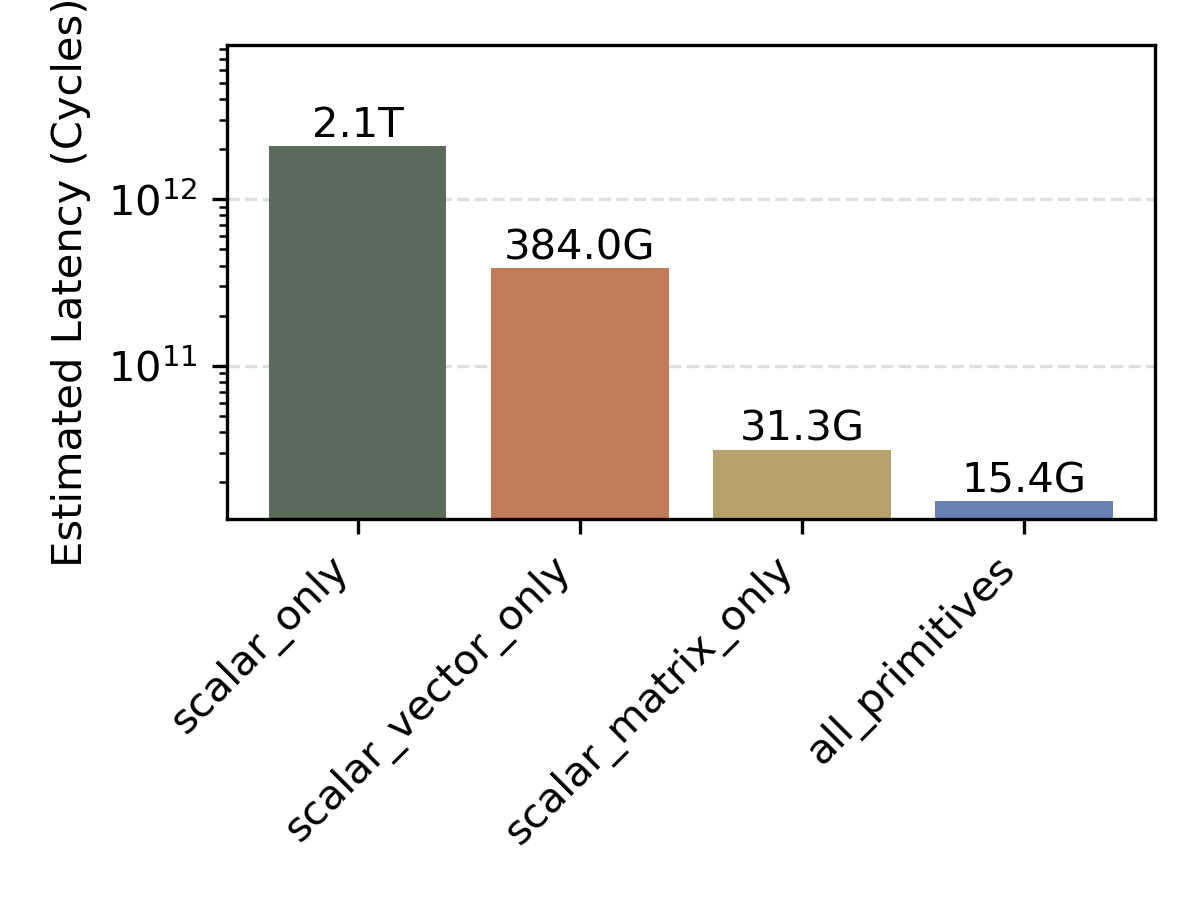
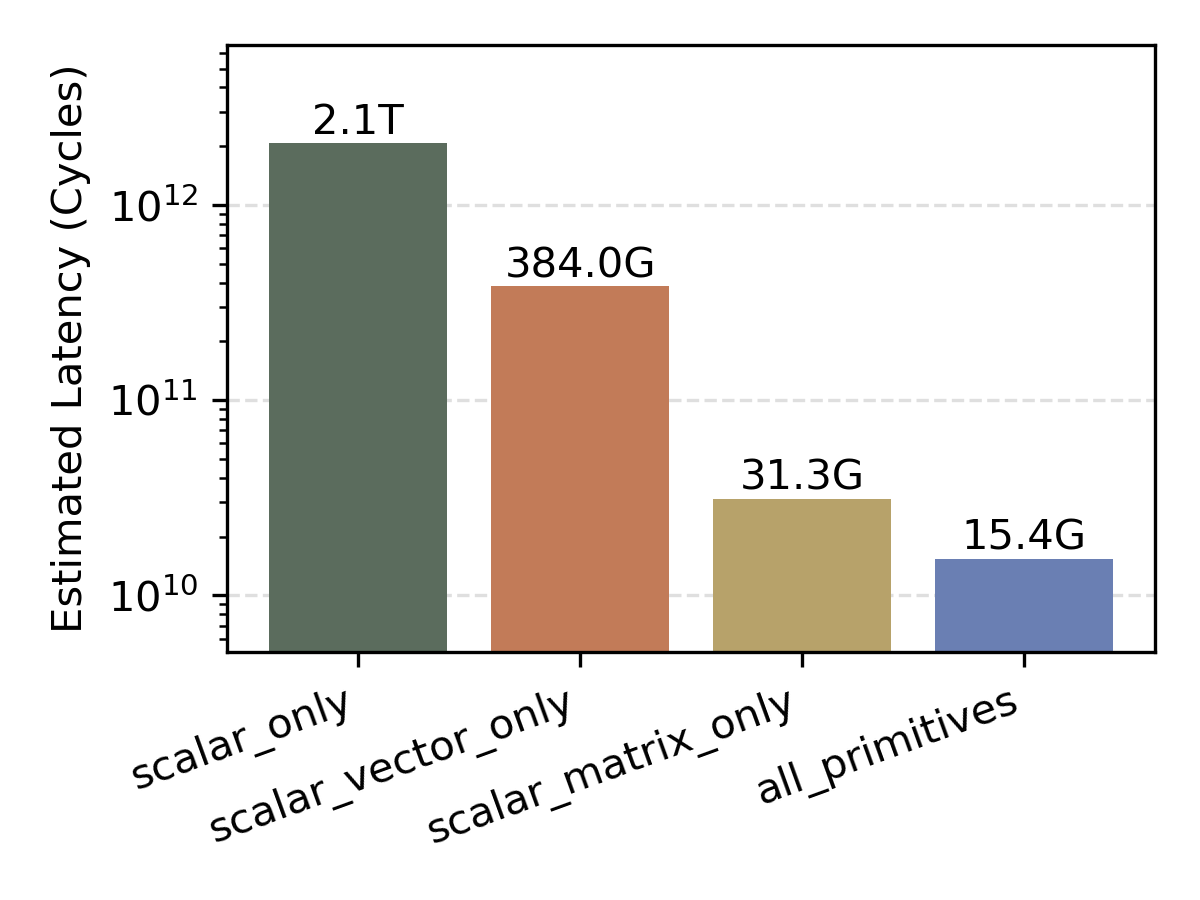
plotting overhaul

diff --git a/perf_analysis/run_analysis.py b/perf_analysis/run_analysis.py
@@ -71,10 +71,12 @@ def make_total_latency_plot(summary: pd.DataFrame) -> None:
     ordered = summary.sort_values("total_latency", ascending=False)
     fig, ax = plt.subplots(figsize=(4, 3))
     bars = ax.bar(ordered["experiment"], ordered["total_latency"], color=["#5B6C5D", "#C27B58", "#B7A26A", "#6A7FB3"])
+
     ax.set_ylabel("Estimated Latency (Cycles)")
     # ax.set_title("Regge-Wheeler v2 Primitive Capability Comparison")
     ax.grid(axis="y", linestyle="--", alpha=0.4)
     ax.set_axisbelow(True)
+
     for bar in bars:
         height = bar.get_height()
 
@@ -107,18 +109,235 @@ def make_total_latency_plot(summary: pd.DataFrame) -> None:
     # ax.yaxis.set_major_formatter(plt.FuncFormatter(format_yticks))
 
     # Rotate x-axis labels for better readability
-    plt.xticks(rotation=45, ha="right")
+    plt.xticks(rotation=20, ha="right")
 
     ax.set_yscale("log")
 
-    # Raise y limit to make space for annotations
-    current_ylim = ax.get_ylim()
-    ax.set_ylim(0, current_ylim[1] * 10**0.5)
+    # Raise y limit to make space for annotations while staying valid on a log axis.
+    positive_totals = ordered.loc[ordered["total_latency"] > 0, "total_latency"]
+    if not positive_totals.empty:
+        lower = max(float(positive_totals.min()) / 3.0, 1e-3)
+        upper = float(positive_totals.max()) * (10**0.5)
+        ax.set_ylim(lower, upper)
     
     fig.tight_layout()
     fig.savefig(RESULTS_DIR / "latency_totals.png", dpi=300)
     fig.savefig(RESULTS_DIR / "latency_totals.pdf")
     plt.close(fig)
+
+
+def make_latency_composition_plots(summary: pd.DataFrame) -> None:
+    ordered = summary.sort_values("total_latency", ascending=False).copy()
+
+    fig, ax = plt.subplots(figsize=(4, 3))
+    ax.bar(
+        ordered["experiment"],
+        ordered["scalar_latency"],
+        color="#5B6C5D",
+        label="Scalar",
+    )
+    ax.bar(
+        ordered["experiment"],
+        ordered["vector_latency"],
+        bottom=ordered["scalar_latency"],
+        color="#C27B58",
+        label="Vector",
+    )
+    ax.bar(
+        ordered["experiment"],
+        ordered["matrix_latency"],
+        bottom=ordered["scalar_latency"] + ordered["vector_latency"],
+        color="#B7A26A",
+        label="Matrix",
+    )
+    ax.set_ylabel("Estimated Latency (Cycles)")
+    ax.grid(axis="y", linestyle="--", alpha=0.4)
+    ax.set_axisbelow(True)
+    ax.legend(frameon=False)
+    plt.xticks(rotation=20, ha="right")
+    ax.set_yscale("log")
+
+    positive_totals = ordered.loc[ordered["total_latency"] > 0, "total_latency"]
+    if not positive_totals.empty:
+        lower = max(float(positive_totals.min()) / 3.0, 1e-3)
+        upper = float(positive_totals.max()) * (10**0.5)
+        ax.set_ylim(lower, upper)
+
+    fig.tight_layout()
+    fig.savefig(RESULTS_DIR / "latency_composition.png", dpi=300)
+    fig.savefig(RESULTS_DIR / "latency_composition.pdf")
+    plt.close(fig)
+
+    composition = ordered[["scalar_latency", "vector_latency", "matrix_latency"]].div(
+        ordered["total_latency"], axis=0
+    ).fillna(0.0)
+    fig, ax = plt.subplots(figsize=(4, 3))
+    ax.bar(
+        ordered["experiment"],
+        composition["scalar_latency"],
+        color="#5B6C5D",
+        label="Scalar",
+    )
+    ax.bar(
+        ordered["experiment"],
+        composition["vector_latency"],
+        bottom=composition["scalar_latency"],
+        color="#C27B58",
+        label="Vector",
+    )
+    ax.bar(
+        ordered["experiment"],
+        composition["matrix_latency"],
+        bottom=composition["scalar_latency"] + composition["vector_latency"],
+        color="#B7A26A",
+        label="Matrix",
+    )
+    ax.set_ylabel("Latency Composition")
+    ax.set_ylim(0.0, 1.0)
+    ax.grid(axis="y", linestyle="--", alpha=0.4)
+    ax.set_axisbelow(True)
+    ax.legend(frameon=False)
+    plt.xticks(rotation=20, ha="right")
+
+    fig.tight_layout()
+    fig.savefig(RESULTS_DIR / "latency_composition_fraction.png", dpi=300)
+    fig.savefig(RESULTS_DIR / "latency_composition_fraction.pdf")
+    plt.close(fig)
+
+
+def make_latency_multibar_plot(summary: pd.DataFrame) -> None:
+    ordered = summary.sort_values("total_latency", ascending=False).copy()
+
+    x_positions = list(range(len(ordered)))
+    width = 0.2
+
+    fig, ax = plt.subplots(figsize=(5, 3))
+    ax.bar(
+        [x - 1.5 * width for x in x_positions],
+        ordered["scalar_latency"],
+        width=width,
+        color="#5B6C5D",
+        label="Scalar",
+    )
+    ax.bar(
+        [x - 0.5 * width for x in x_positions],
+        ordered["vector_latency"],
+        width=width,
+        color="#C27B58",
+        label="Vector",
+    )
+    ax.bar(
+        [x + 0.5 * width for x in x_positions],
+        ordered["matrix_latency"],
+        width=width,
+        color="#B7A26A",
+        label="Matrix",
+    )
+    ax.bar(
+        [x + 1.5 * width for x in x_positions],
+        ordered["total_latency"],
+        width=width,
+        color="#6A7FB3",
+        label="Total",
+    )
+
+    ax.set_ylabel("Estimated Cycles")
+    ax.set_xticks(x_positions)
+    ax.set_xticklabels(ordered["experiment"])
+    plt.xticks(rotation=20, ha="right")
+    ax.grid(axis="y", linestyle="--", alpha=0.4)
+    ax.set_axisbelow(True)
+    ax.legend(frameon=False, ncol=2)
+    ax.set_yscale("log")
+
+    positive_values = ordered[
+        ["scalar_latency", "vector_latency", "matrix_latency", "total_latency"]
+    ].to_numpy()
+    positive_values = positive_values[positive_values > 0]
+    if positive_values.size:
+        lower = max(float(positive_values.min()) / 3.0, 1e-3)
+        upper = float(positive_values.max()) * (10**0.5)
+        ax.set_ylim(lower, upper)
+
+    fig.tight_layout()
+    fig.savefig(RESULTS_DIR / "latency_multibar.png", dpi=300)
+    fig.savefig(RESULTS_DIR / "latency_multibar.pdf")
+    plt.close(fig)
+
+
+def make_latency_distribution_pie_charts(summary: pd.DataFrame) -> None:
+    ordered = summary.sort_values("total_latency", ascending=False).copy()
+    labels = ["Scalar", "Vector", "Matrix"]
+    colors = ["#5B6C5D", "#C27B58", "#B7A26A"]
+
+    for row in ordered.itertuples(index=False):
+        values = [float(row.scalar_latency), float(row.vector_latency), float(row.matrix_latency)]
+        total = sum(values)
+
+        fig, ax = plt.subplots(figsize=(4, 3))
+        if total > 0:
+            wedges, texts, autotexts = ax.pie(
+                values,
+                labels=labels,
+                colors=colors,
+                autopct="%1.1f%%",
+                startangle=90,
+                counterclock=False,
+            )
+            for text in texts:
+                text.set_fontsize(9)
+            for text in autotexts:
+                text.set_fontsize(9)
+                text.set_color("white")
+        else:
+            ax.text(0.5, 0.5, "No latency data", ha="center", va="center", transform=ax.transAxes)
+
+        ax.set_title(f"{row.experiment} Composition")
+        ax.axis("equal")
+
+        fig.tight_layout()
+        fig.savefig(RESULTS_DIR / f"latency_distribution_pie_{row.experiment}.png", dpi=300)
+        fig.savefig(RESULTS_DIR / f"latency_distribution_pie_{row.experiment}.pdf")
+        plt.close(fig)
+
+def make_speedup_plot(summary: pd.DataFrame) -> None:
+    baseline = float(summary.loc[summary["experiment"] == "scalar_only", "total_latency"].iloc[0])
+    ordered = summary.sort_values("total_latency", ascending=False).copy()
+    ordered["speedup"] = baseline / ordered["total_latency"]
+
+    fig, ax = plt.subplots(figsize=(4, 3))
+    bars = ax.bar(ordered["experiment"], ordered["speedup"], color=["#5B6C5D", "#C27B58", "#B7A26A", "#6A7FB3"])
+    ax.set_ylabel("Speedup")
+    ax.grid(axis="y", linestyle="--", alpha=0.4)
+    ax.set_axisbelow(True)
+    for bar in bars:
+        height = bar.get_height()
+        text = f"{height:.1f}x"
+        ax.text(bar.get_x() + bar.get_width() / 2.0, height, text, ha="center", va="bottom")
+
+    plt.xticks(rotation=20, ha="right")
+
+    ax.set_yscale("log")
+    positive_speedups = ordered.loc[ordered["speedup"] > 0, "speedup"]
+    if not positive_speedups.empty:
+        lower = max(float(positive_speedups.min()) / 3.0, 1e-3)
+        upper = float(positive_speedups.max()) * (10**0.5)
+        ax.set_ylim(lower, upper)
+
+    # Clean the labels to be more readable
+    label_mapping = {
+        "all_primitives": "Full Accelerator",
+        "scalar_vector_only": "Scalar + Vector",
+        "scalar_matrix_only": "Scalar + Matrix",
+        "scalar_only": "Scalar Only",
+    }
+    ax.set_xticklabels([label_mapping.get(label.get_text(), label.get_text()) for label in ax.get_xticklabels()])
+
+    fig.tight_layout()
+    fig.savefig(RESULTS_DIR / "speedup.png", dpi=300)
+    fig.savefig(RESULTS_DIR / "speedup.pdf")
+    plt.close(fig)
+
 
 def make_ablation_plot(summary: pd.DataFrame) -> None:
     plot_order = ["all_primitives", "scalar_vector_only", "scalar_matrix_only", "scalar_only"]
@@ -155,7 +374,11 @@ def main() -> None:
     experiment_frames, summary = run_all_experiments(config)
     write_results(experiment_frames, summary)
     make_total_latency_plot(summary)
-    make_ablation_plot(summary)
+    # make_latency_composition_plots(summary)
+    # make_latency_multibar_plot(summary)
+    # make_latency_distribution_pie_charts(summary)
+    make_speedup_plot(summary)
+    # make_ablation_plot(summary)
     print("Wrote primitive statistics, summaries, and plots to", RESULTS_DIR)
 
 

diff --git a/regge_wheeler_v2.py b/regge_wheeler_v2.py
@@ -119,6 +119,9 @@ if __name__ == "__main__":
     optimizer = torch.optim.Adam(model.parameters(), lr=5e-3)
     scheduler = torch.optim.lr_scheduler.ExponentialLR(optimizer, gamma=0.999)
     
+    # Using a StepLR scheduler to reduce learning rate every 1000 epochs
+    # scheduler = torch.optim.lr_scheduler.StepLR(optimizer, step_size=1000, gamma=0.1)
+    
     # Generate Collocation Points
     N_colloc = 3000
     t_colloc = torch.rand(N_colloc, 1) * t_max
@@ -169,30 +172,37 @@ if __name__ == "__main__":
     freqs_fd, h_fd = compute_strain(t_fd, psi_obs_fd)
     freqs_pinn, h_pinn = compute_strain(t_fd, psi_obs_pinn)
 
+
     # 4. Plotting using relative coordinate tracking
-    fig_w, fig_h = 12, 5
-    fig, (ax1, ax2) = plt.subplots(1, 2, figsize=(fig_w, fig_h))
+    fig_w, fig_h = 2.5,4
+    fig, (ax1, ax2) = plt.subplots(2, 1, figsize=(fig_w, fig_h), dpi=300)
     
     # Time Domain Plot (Proves oscillation)
     ax1.plot(t_fd, psi_obs_fd, label="FD $\psi(t)$", color='black', linewidth=1.5)
     ax1.plot(t_fd, psi_obs_pinn, label="PINN $\psi(t)$", color='red', linestyle='--', linewidth=1.5)
     ax1.set_xlabel("Time $t$")
-    ax1.set_ylabel("Perturbation Field $\psi(t, r^*=20)$")
+    ax1.set_ylabel("Perturbation Field\n$\psi(t, r^*=20)$")
     
     # Frequency Domain Strain Plot
     ax2.plot(freqs_fd, h_fd, label="FD Strain", color='black', linewidth=1.5)
     ax2.plot(freqs_pinn, h_pinn, label="PINN Strain", color='red', linestyle='--', linewidth=1.5)
-    ax2.set_xlabel("Frequency $\omega / 2\pi$")
-    ax2.set_ylabel("Projected Strain $|\tilde{h}(\omega)|$")
+    ax2.set_xlabel("Frequency (Hz)")
+    ax2.set_ylabel("Projected Strain\n$|\\tilde{h}(\omega)|$")
     ax2.set_yscale('log') # Log scale helps visualize the ringdown frequencies
     
     # Relative positioning variables for text
     rel_x, rel_y_top, rel_y_mid = 0.05, 0.90, 0.82
     
     for ax in [ax1, ax2]:
-        ax.text(rel_x, rel_y_top, "Observer: $r^* = 20M$", transform=ax.transAxes)
-        ax.legend(loc="upper right")
+        # ax.text(rel_x, rel_y_top, "Observer: $r^* = 20M$", transform=ax.transAxes)
+    #     # ax.legend(loc="upper right")
         ax.grid(True, linestyle="--", alpha=0.6)
+
+    # Legend outside the plots
+    ax1.legend(loc='upper center', bbox_to_anchor=(0.5, 1.5), ncol=2, labels=['FD', 'PINN'])
         
     plt.tight_layout()
+    plt.savefig("regge_wheeler_comparison.pdf", dpi=300, bbox_inches='tight')
+
     plt.show()
+

diff --git a/perf_analysis/config.py b/perf_analysis/config.py
@@ -16,7 +16,6 @@ class VectorConfig:
                 f"Choose one of {self.supported_lanes}."
             )
 
-
 @dataclass(frozen=True)
 class MatrixConfig:
     tile_m: int = 16

diff --git a/perf_analysis/workloads.py b/perf_analysis/workloads.py
@@ -182,6 +182,7 @@ def _simulate_network_forward(
             repetitions=repetitions,
         )
 
+    # Execute hidden-to-output layer
     output_weights = np.ones((cfg.hidden_width, cfg.output_width), dtype=np.float32)
     nn_out = executor.matmul(hidden, output_weights, section=f"{section}.dense_out", repetitions=repetitions)
 

diff --git a/README.md b/README.md
@@ -6,6 +6,7 @@
     - Models latency of reading the shared data from L1
     - Systolic array delay model for TPU
     - TPU assumed to already contain the weight hierarchy (consistent with an assumption that we train the weights on the spot).
+    - Tiling is performed if Matmul dim is mismatched. The software overhead of managing the tiling is not accounted for. 
 
 - `stream_sim` models the accelerator in [Stream]().
     - Currently WIP.
@@ -15,5 +16,4 @@
 # Issues (in README for now)
 
 - [ ] Updating the weights should be done by the Vector processor
-- [ ] No tiling performed to account for mismatch of TPU size vs Matrix size... 
 - [ ] Fix problems with stream_sim